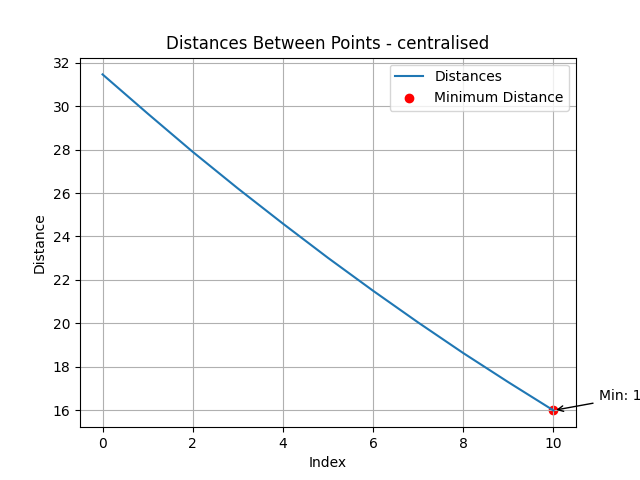
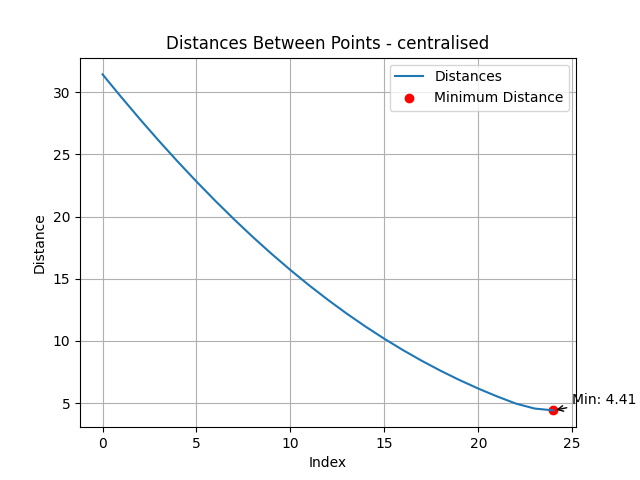
braking trajectory added. Correct norm2 still does not work

diff --git a/multi_vehicle_coordination_algorithm/scripts/centralised-algorithm/mpc_controller.py b/multi_vehicle_coordination_algorithm/scripts/centralised-algorithm/mpc_controller.py
@@ -81,31 +81,22 @@ class MPCPlanner:
 
         if not hasattr(self, "_mpc_u_plan"):
             self._mpc_u_plan = np.zeros((self._nu, self._N))
-            self.set_initial_u_plan()
-
-        self._x_traj_init =  self._mpc_x_plan
-        self._u_traj_init = self._mpc_u_plan
+            self._mpc_u_plan[0, :] = self.get_throttle_init_value()
+            self._mpc_u_plan[2, :] = self.get_throttle_init_value()
 
         if self._mpc_feasible:
-            pass
-            # Shifted
-            # self._x_traj_init = np.concatenate((self._mpc_x_plan[:, 1:], self._mpc_x_plan[:, -1:]), axis=1)
-            # self._u_traj_init = np.concatenate((self._mpc_u_plan[:, 1:], self._mpc_u_plan[:, -1:]), axis=1)            
 
-            # Not shifted
+            self._x_traj_init = self._mpc_x_plan
+            self._u_traj_init = self._mpc_u_plan
+
         else:
-            pass
+
             # Brake (model specific)
-            # self._x_traj_init = self.get_braking_trajectory(xinit)
-            # self._x_traj_init = self._projection_func(self._x_traj_init)
+            self._x_traj_init = self.get_braking_trajectory(xinit)
+            self._u_traj_init = np.zeros((self._nu, self._N))
 
-            # Xinit everywhere (could be infeasible)
-            # self._x_traj_init = np.tile(np.array(xinit).reshape((-1, 1)), (1, self._N))
-            # self._u_traj_init = np.zeros((self._nu + self._nd, self._N))
-            # self._solver.reset(reset_qp_solver_mem=1)
-            # self._solver.options_set('warm_start_first_qp', False)
+            self._solver.options_set('warm_start_first_qp', False)
 
-   
         return self.solve_acados(xinit, p)
 
     def solve_acados(self, xinit, p):
@@ -123,7 +114,6 @@ class MPCPlanner:
             self._solver.set(self._N, 'p', np.array(p[(self._N-1)*npar : (self._N)*npar])) # Repeats the final set of parameters
 
             solve_time = 0.
-            # for it in range(self._settings["solver_settings"]["iterations_centralised"]):
             for it in range(self._solver_iterations):
                 status = self._solver.solve()
                 solve_time += float(self._solver.get_stats('time_tot')) * 1000.
@@ -225,17 +215,14 @@ class MPCPlanner:
         self._mpc_x_plan[3 + self._nx_one_robot,:] = self.reference_velocity
         self._mpc_x_plan[6 + self._nx_one_robot,:] = np.interp(np.linspace(0,1,self._N), np.linspace(0,1,N_0+1), s_0_vec)
     
-    def set_initial_u_plan(self):
+    def get_throttle_init_value(self):
         # Evaluate throttle to keep the constant velocity
         throttle_search = np.linspace(0,1,30)
         mass_vehicle = self._dynamic_model.get_mass()
         fx = self._dynamic_model.fx_wheels(throttle_search, self.reference_velocity)
         acceleration_x = fx / mass_vehicle
         throttle_initial_guess = throttle_search[np.argmin(np.abs(acceleration_x))]
-        self._mpc_u_plan[0, :] = throttle_initial_guess
-        if self._number_of_robots == 2 : 
-            self._mpc_u_plan[2, :] = throttle_initial_guess
-            # self._mpc_u_plan[-self._nlam+4:-self._nlam+12, :] = self._dmin
+        return throttle_initial_guess
 
     def get_cost_acados(self):
         return self._solver.get_cost()
@@ -247,22 +234,25 @@ class MPCPlanner:
             output[f"throttle_{n}"] = 0.
             output[f"steering_{n}"] = 0.
 
-    def get_braking_trajectory(self, state):    # Not adjusted for multi robot
-        x = state[0]
-        y = state[1]
-        theta = state[2]
-        v = state[3]
-        spline = state[4]
+    def get_braking_trajectory(self, state): 
+        for n in range(self._number_of_robots):
+            x = state[0+(n*self._nx_one_robot)]
+            y = state[1+(n*self._nx_one_robot)]
+            theta = state[2+(n*self._nx_one_robot)]
+            vx = state[3+(n*self._nx_one_robot)]
+            vy = state[4+(n*self._nx_one_robot)]
+            w = state[5+(n*self._nx_one_robot)]
+            spline = state[6+(n*self._nx_one_robot)]
 
-        result = np.zeros((5, self._N))
-        result[:, 0] = np.array([x, y, theta, v, spline])
-        for k in range(1, self._N):
-            x += v * self._dt * math.cos(theta)
-            y += v * self._dt * math.sin(theta)
-            spline += v * self._dt
-            v -= self._braking_acceleration * self._dt
-            v = np.max([v, 0.])
-            result[:, k] = np.array([x, y, theta, v, spline])
+            result = np.zeros((self._nx, self._N))
+            result[(n*self._nx_one_robot):((n+1)*self._nx_one_robot), 0] = np.array([x, y, theta, vx, vy, w, spline])
+            for k in range(1, self._N):
+                x += vx * self._dt * math.cos(theta)
+                y += vx * self._dt * math.sin(theta)
+                spline += vx * self._dt
+                vx -= self._braking_acceleration * self._dt
+                vx = np.max([vx, 0.])
+                result[(n*self._nx_one_robot):((n+1)*self._nx_one_robot), k] = np.array([x, y, theta, vx, vy, w, spline])
         return result
 
 

diff --git a/multi_vehicle_coordination_algorithm/scripts/distributed-algorithm/mpc_controller.py b/multi_vehicle_coordination_algorithm/scripts/distributed-algorithm/mpc_controller.py
@@ -36,7 +36,7 @@ class MPCPlanner:
         self.init_nmpc_solver()
         self.init_ca_solver()
 
-        self._mpc_feasible = False
+        self._mpc_feasible = True
         self.time_tracker = TimeTracker(self._settings["solver_settings"])
 
         print_header(f"Starting MPC {idx}")
@@ -100,19 +100,19 @@ class MPCPlanner:
             self._mpc_u_plan = np.zeros((self._nu_nmpc, self._N))
             self.set_initial_u_plan()
 
-        self._x_traj_init = self._mpc_x_plan
-        self._u_traj_init = self._mpc_u_plan
+        if self._mpc_feasible:
 
-        if not self._mpc_feasible:
-            pass
+            self._x_traj_init = self._mpc_x_plan
+            self._u_traj_init = self._mpc_u_plan
 
-            # Xinit everywhere (could be infeasible)
-            # self._x_traj_init = np.tile(np.array(xinit).reshape((-1, 1)), (1, self._N))
-            # self._u_traj_init = np.zeros((self._nu_nmpc, self._N))
-            # self._solver_nmpc.reset(reset_qp_solver_mem=1)
-            # self._solver_nmpc.options_set('warm_start_first_qp', False)
+        else:
 
-   
+            # Brake (model specific)
+            self._x_traj_init = self.get_braking_trajectory(xinit)
+            self._u_traj_init = np.zeros((self._nu_nmpc, self._N))
+
+            self._solver_nmpc.options_set('warm_start_first_qp', False)
+
         return self.solve_acados_nmpc(xinit, p)
 
     def solve_acados_nmpc(self, xinit, p):
@@ -254,6 +254,26 @@ class MPCPlanner:
         acceleration_x = fx / mass_vehicle
         throttle_initial_guess = throttle_search[np.argmin(np.abs(acceleration_x))]
         self._mpc_u_plan[0, :] = throttle_initial_guess
+
+    def get_braking_trajectory(self, state):    # Not adjusted for multi robot
+        x = state[0]
+        y = state[1]
+        theta = state[2]
+        vx = state[3]
+        vy = state[4]
+        w = state[5]
+        spline = state[6]
+
+        result = np.zeros((self._nx_nmpc, self._N))
+        result[:, 0] = np.array([x, y, theta, vx, vy, w, spline])
+        for k in range(1, self._N):
+            x += vx * self._dt * math.cos(theta)
+            y += vx * self._dt * math.sin(theta)
+            spline += vx * self._dt
+            vx -= self._braking_acceleration * self._dt
+            vx = np.max([vx, 0.])
+            result[:, k] = np.array([x, y, theta, vx, vy, w, spline])
+        return result
 
     def get_cost_nmpc(self):
         return self._solver_nmpc.get_cost()

diff --git a/multi_vehicle_coordination_algorithm/scripts/centralised-algorithm/generate_centralised_solver.py b/multi_vehicle_coordination_algorithm/scripts/centralised-algorithm/generate_centralised_solver.py
@@ -36,6 +36,8 @@ def configuration_basic(settings):
         base_module = modules.add_module(MPCBaseModule(settings))
         base_module.weigh_variable(var_name=f"steering_{n}", weight_names="steering")
         base_module.weigh_variable(var_name=f"throttle_{n}", weight_names="throttle")
+
+        # Performance is significantly better with minimization on dual variables
         for j in range(1,num_robots+1):
             if j == n:
                 continue
@@ -46,19 +48,16 @@ def configuration_basic(settings):
             if n > j:
                 base_module.weigh_variable(var_name=f"s_{j}_{n}_0", weight_names="s_dual",)
                 base_module.weigh_variable(var_name=f"s_{j}_{n}_1", weight_names="s_dual",)
-            else:
-                base_module.weigh_variable(var_name=f"s_{n}_{j}_0", weight_names="s_dual",)
-                base_module.weigh_variable(var_name=f"s_{n}_{j}_1", weight_names="s_dual",)
             
         modules.add_module(ContouringModule(settings, n))
         modules.add_module(PathReferenceVelocityModule(settings, n))
 
         
     # Multiple exactly the same constraints cause issues
-    modules.add_module(PolytopicDminConstraintModule(settings, n))
-    modules.add_module(PolytopicSidualConstraintModule(settings, n))
-    modules.add_module(PolytopicSjdualConstraintModule(settings, n))
-    modules.add_module(s2normConstraintModule(settings, n))
+    modules.add_module(PolytopicDminConstraintModule(settings, 1))
+    modules.add_module(PolytopicSidualConstraintModule(settings, 1))
+    modules.add_module(PolytopicSjdualConstraintModule(settings, 1))
+    modules.add_module(s2normConstraintModule(settings, 1))
     
     return model, modules
 

diff --git a/mpc_planner_modules/polytopic_si_constraints.py b/mpc_planner_modules/polytopic_si_constraints.py
@@ -35,7 +35,7 @@ class PolytopicSidualConstraints:
         self.number_of_robots = settings["number_of_robots"]
         self.scheme = settings["scheme"]
         self.idx_i = idx_i
-        self.n_constraints = (self.number_of_robots - 1) * 2 #if self.scheme == 'distributed' else (self.number_of_robots - self.idx_i) * 2
+        self.n_constraints = (self.number_of_robots - 1) * 2 
         self.nh = self.n_constraints
         self.use_slack = use_slack
         self.solver_name = settings.get("solver_name", None)
@@ -116,7 +116,7 @@ class PolytopicSidualConstraints:
         theta_i = self.get_theta_i(model, params)
         A_i = get_A(theta_i)
 
-        start_idx = 1 #if self.scheme == 'distributed' else self.idx_i
+        start_idx = 1
         for j in range(start_idx, self.number_of_robots+1):  
             if j == self.idx_i:
                 continue

diff --git a/multi_vehicle_coordination_algorithm/scripts/distributed-algorithm/ros_mpc_controller.py b/multi_vehicle_coordination_algorithm/scripts/distributed-algorithm/ros_mpc_controller.py
@@ -149,12 +149,12 @@ class ROSMPCPlanner:
         if self._verbose:
             time = timer.stop_and_print()
 
-        setattr(self, f'_trajectory_{self._idx}', trajectory)
         # lambdas = trajectory[-self._nlam:]
 
         if self._mpc_feasible:
                 # self.publish_lambdas(lambdas)
             self.publish_trajectory(trajectory)
+            setattr(self, f'_trajectory_{self._idx}', trajectory)
 
             if it == self._iterations:
                 if self._dart_simulator == False:
@@ -202,7 +202,7 @@ class ROSMPCPlanner:
                 self.publish_throttle(control_output, self._mpc_feasible) 
                 self.publish_steering(control_output, self._mpc_feasible) 
             
-            self.visualize()
+        self.visualize()
             
 
     def set_nmpc_parameters(self):

diff --git a/solver_generator/generate_solver.py b/solver_generator/generate_solver.py
@@ -122,7 +122,7 @@ def generate_solver(modules, model, settings=None):
     # Slack for constraints
     add_slack = settings["add_slack"]
     slack_value = settings["slack_value"]
-    if add_slack and ('nmpc' or 'centralised') in settings["solver_name"]:
+    if add_slack: #and ('nmpc' or 'centralised') in settings["solver_name"]:
         add_constraint_slack = True
         value = float(slack_value)
 
@@ -157,7 +157,7 @@ def generate_solver(modules, model, settings=None):
 
     # horizon
     ocp.solver_options.tf = settings["N"] * settings["integrator_step"]
-    ocp.solver_options.tol = 1e-4 # 1e-6  # 1e-2
+    ocp.solver_options.tol = 1e-3 # 1e-6  # 1e-2
 
     # Solver options
     # integrator option

diff --git a/mpc_planner_modules/s_2_norm_constraints.py b/mpc_planner_modules/s_2_norm_constraints.py
@@ -40,7 +40,7 @@ class s2normConstraintConstraints:
     def get_lower_bound(self):
         lower_bound = []
         for index in range(0, self.n_constraints):
-            lower_bound.append(-1)
+            lower_bound.append(0)
         return lower_bound
 
     def get_upper_bound(self):
@@ -64,6 +64,8 @@ class s2normConstraintConstraints:
                 s_ij_1 = model.get(f"s_{j}_{self.idx}_1")
 
             # constraints.append(cd.norm_2(s_ij_0))
+            # constraints.append(cd.norm_2(s_ij_1))
+
             constraints.append(cd.norm_2(cd.vertcat(s_ij_0, s_ij_1)))
 
         return constraints

diff --git a/multi_vehicle_coordination_algorithm/scripts/plot_utils.py b/multi_vehicle_coordination_algorithm/scripts/plot_utils.py
@@ -8,6 +8,7 @@ sys.path.append(os.path.join(sys.path[0], "..", "..", "solver_generator"))
 from geometry_msgs.msg import PoseStamped, Pose
 from nav_msgs.msg import Odometry, Path
 from util.math import min_distance_polytopes
+from util.logging import print_value
 
 
 
@@ -183,5 +184,5 @@ def plot_distance(poses_1, poses_2, length, width, scheme='centralised'):
     plt.legend()
     plt.grid(True)
     plt.savefig(os.path.join(os.path.dirname(__file__), f'{scheme}-algorithm/plots', f'distance_{scheme}.png'))  # Save the plot to a file
-
+    print_value("Minimum Distance", min_distance, tab=True)
 

diff --git a/solver_generator/solver_model.py b/solver_generator/solver_model.py
@@ -481,8 +481,8 @@ class BicycleModel2ndOrderMultiRobot(MultiRobotDynamicsModel):
         self.lower_bound_inputs = np.tile([[0.0],[-1.0]], (1, n)) 
         self.upper_bound_inputs = np.tile([[1.0], [1.0]], (1, n))
 
-        lower_bound_s = np.ones_like(self.s)* -10
-        upper_bound_s = np.ones_like(self.s)* 10
+        lower_bound_s = np.ones_like(self.s)* -1000
+        upper_bound_s = np.ones_like(self.s)* 1000
 
         self.lower_bound_lams = np.zeros_like(self.lams)  # lambda
         self.upper_bound_lams = np.ones_like(self.lams)*1000  # lambda  
